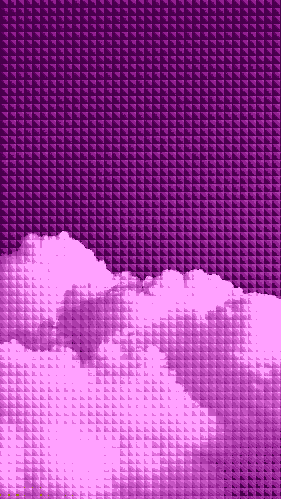
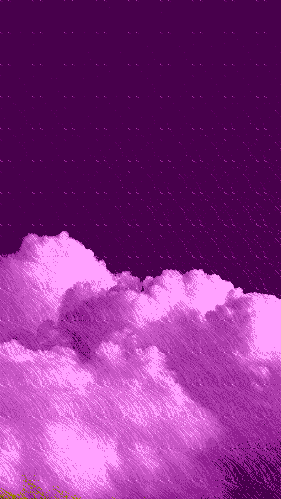
Added advanced strategy - CURVE PATH

diff --git a/src/lib.rs b/src/lib.rs
@@ -148,7 +148,7 @@ pub type GradientMap<'a, Color> = &'a [(Color, f32)];
 
 #[cfg(test)]
 mod test {
-    use std::error::Error;
+    use std::{error::Error, f64::consts::PI};
 
     use image::{DynamicImage, ImageResult, GenericImageView, imageops};
     use ndarray::{array, Array};
@@ -406,6 +406,15 @@ mod test {
         image.clone().apply(&Ordered::new(palette.clone(), MarbleTile(16)))
             .save(format!("data/dither/marble-tile-16x16{}.png", postfix))?;
 
+        image.clone().apply(&Ordered::new(palette.clone(), CurvePath { n: 2, amplitude: 0.3, promotion: 0.005, halt_threshold: 100 }))
+            .save(format!("data/dither/curve-path-2x2{}.png", postfix))?;
+        image.clone().apply(&Ordered::new(palette.clone(), CurvePath { n: 4, amplitude: 0.3, promotion: 0.005, halt_threshold: 100 }))
+            .save(format!("data/dither/curve-path-4x4{}.png", postfix))?;
+        image.clone().apply(&Ordered::new(palette.clone(), CurvePath { n: 8, amplitude: 0.3, promotion: 0.005, halt_threshold: 100 }))
+            .save(format!("data/dither/curve-path-8x8{}.png", postfix))?;
+        image.clone().apply(&Ordered::new(palette.clone(), CurvePath { n: 16, amplitude: 0.3, promotion: 0.005, halt_threshold: 100 }))
+            .save(format!("data/dither/curve-path-16x16{}.png", postfix))?;
+
         image.clone().apply(&Ordered::new(palette.clone(), Stars))
             .save(format!("data/dither/stars{}.png", postfix))?;
 
@@ -477,23 +486,53 @@ mod test {
 
         // Custom testing
 
-        let n = 8;
+        let n = 32;
+        let amplitude = 0.4;
+        let promotion = 0.01;
+        let halt_threshold = 100;
 
         let mut matrix =  Array::<f64, _>::zeros((n, n));
+        let mut visitor_m = vec![vec![false; n]; n];
+        let curve_end = PI / 2.;
+        let c_factor = curve_end / n as f64;
 
-        for x in 0..n {
-            for y in 0..n {
-               let mag = x as isize - y as isize;
-               let point = matrix.get_mut((x, y)).unwrap(); 
-               *point = mag as f64;
+        let mut i = 0;
+        let mut h = 0;
+
+        while h < halt_threshold || (i % n != 0) {
+            let h_wrap = i / n;
+            let a = amplitude + (h_wrap as f64*promotion);
+            let y_wrap_off = h_wrap as f64 * a;
+
+            let y = (y_wrap_off as f64 + f64::sin(((i%n) as f64 * c_factor * a) % curve_end)) * n as f64;
+            let x = i % n;
+
+            let y = y.round() as usize % n;
+
+            let point = matrix.get_mut((y, x)).unwrap();
+            *point = *point + 1.;
+
+            if visitor_m[y][x] {
+                h = h + 1;
+            } else {
+                h = 0;
+            }
+
+            visitor_m[y][x] = true;
+            i = i + 1;
+        }
+
+        let mut max = 0.0;
+        for cell in matrix.iter() {
+            if *cell > max {
+                max = *cell;
             }
         }
 
-        matrix = matrix / n as f64;
-        matrix = matrix + 1.;
-        matrix = matrix * 0.5;
+        matrix = matrix / max;
 
-        println!("MATRIX:\n {matrix:#?}");
+        // println!("MATRIX:\n {matrix:#?}\nh = {h} - i = {i} - max = {max}");
+        println!("h = {h} - i = {i} - max = {max}");
 
         image.clone().apply(&Ordered::new(palette.clone(), Custom(matrix)))
             .save(format!("data/dither/custom{}.png", postfix))?;

diff --git a/src/dither/ordered.rs b/src/dither/ordered.rs
@@ -1,3 +1,5 @@
+use std::f64::consts::PI;
+
 use ndarray::{array, concatenate, Array, Axis, Dim};
 use palette::Srgb;
 
@@ -37,6 +39,12 @@ pub enum OrderedStrategy {
     Starburst(u8),
     ShinyBowtie(u8),
     MarbleTile(u8),
+    CurvePath {
+        n: u8,
+        amplitude: f64,
+        promotion: f64,
+        halt_threshold: usize,
+    },
     Invert(Box<OrderedStrategy>),
     Mirror(Box<OrderedStrategy>, MirrorLine),
     Custom(Array<f64, Dim<[usize; 2]>>)
@@ -459,6 +467,52 @@ impl OrderedStrategy {
                 matrix = matrix + 1.;
                 matrix * 0.5
             },
+            Self::CurvePath { n, amplitude, promotion, halt_threshold } => {
+                let n = *n as usize;
+                let amplitude = *amplitude;
+                let promotion = *promotion;
+                let halt_threshold = *halt_threshold;
+
+                let mut matrix =  Array::<f64, _>::zeros((n, n));
+                let mut visitor_m = vec![vec![false; n]; n];
+                let curve_end = PI / 2.;
+                let c_factor = curve_end / n as f64;
+
+                let mut i = 0;
+                let mut h = 0;
+
+                while h < halt_threshold || (i % n != 0) {
+                    let h_wrap = i / n;
+                    let a = amplitude + (h_wrap as f64*promotion);
+                    let y_wrap_off = h_wrap as f64 * a;
+
+                    let y = (y_wrap_off as f64 + f64::sin(((i%n) as f64 * c_factor * a) % curve_end)) * n as f64;
+                    let x = i % n;
+
+                    let y = y.round() as usize % n;
+
+                    let point = matrix.get_mut((y, x)).unwrap();
+                    *point = *point + 1.;
+
+                    if visitor_m[y][x] {
+                        h = h + 1;
+                    } else {
+                        h = 0;
+                    }
+
+                    visitor_m[y][x] = true;
+                    i = i + 1;
+                }
+
+                let mut max = 0.0;
+                for cell in matrix.iter() {
+                    if *cell > max {
+                        max = *cell;
+                    }
+                }
+
+                matrix / max
+            }
             Self::Invert(strategy) => {
                 1.0 - &strategy.get_matrix()
             },
